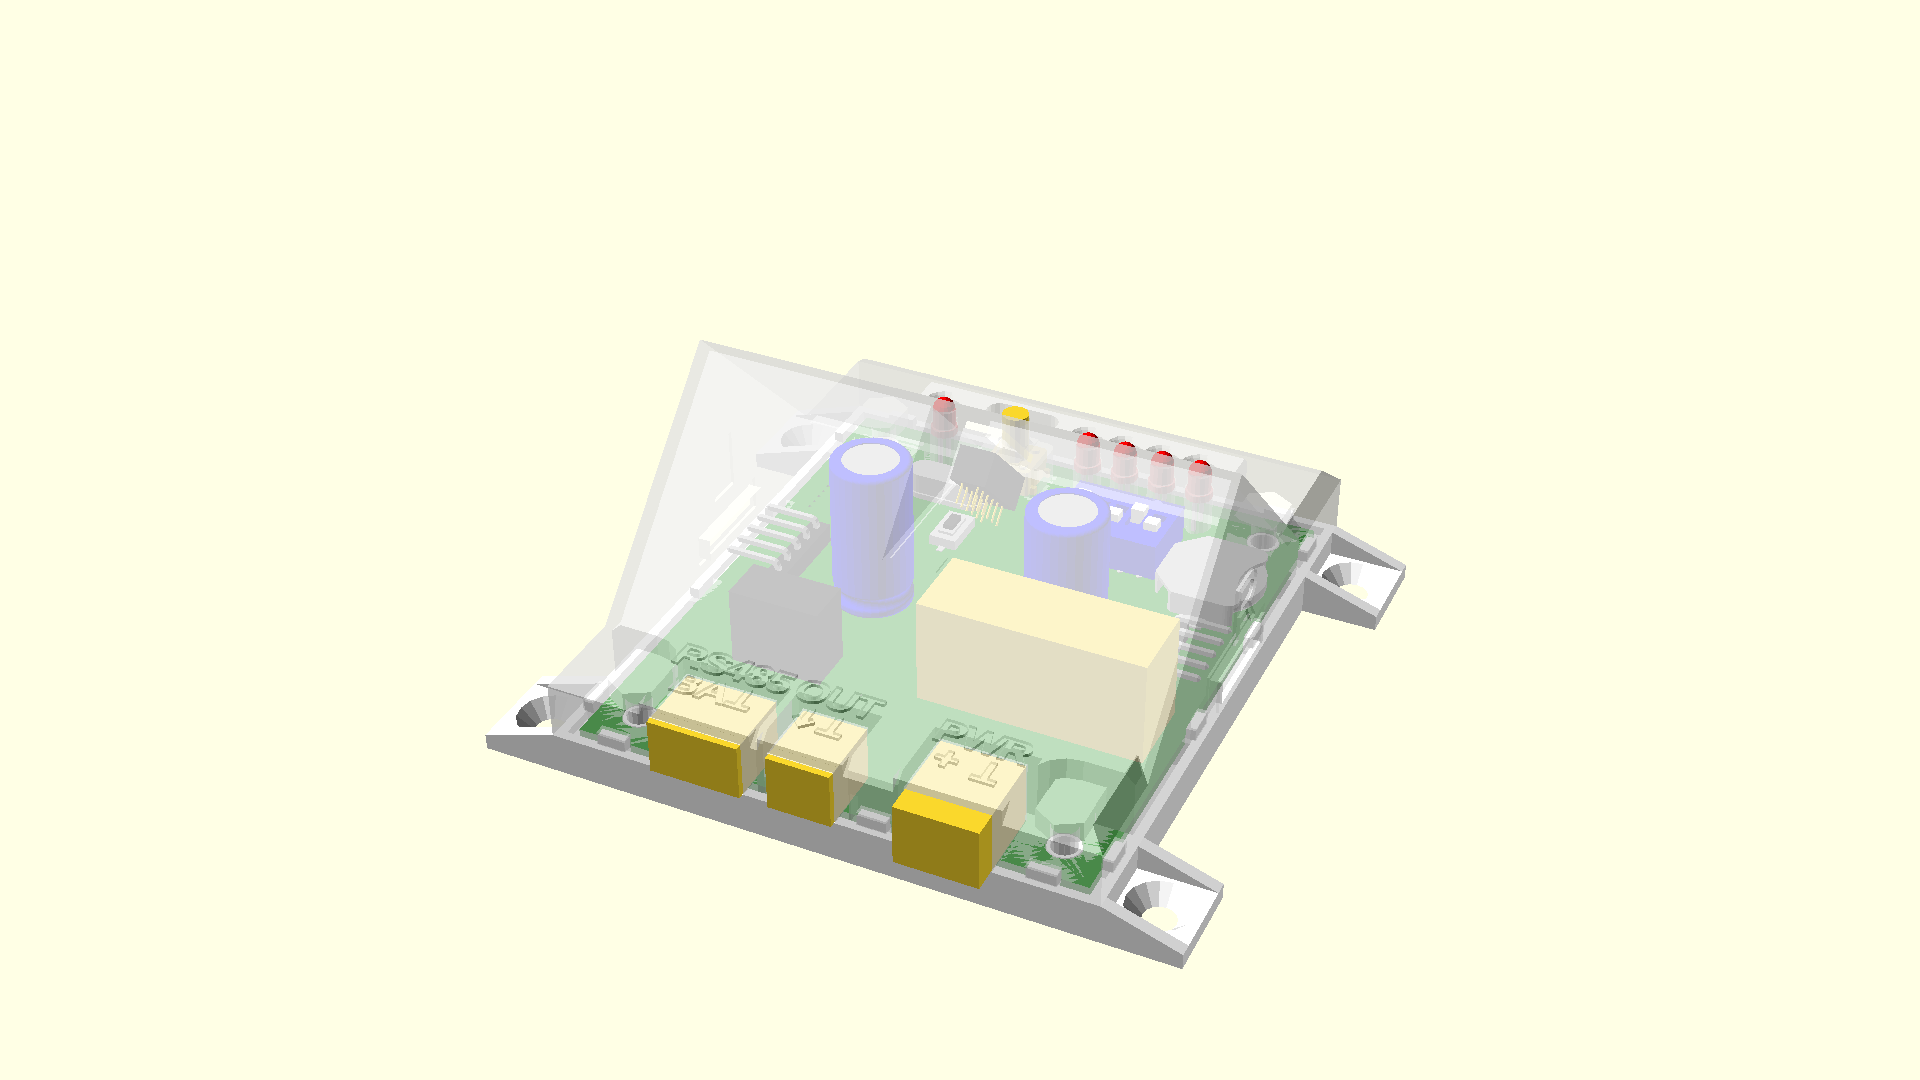
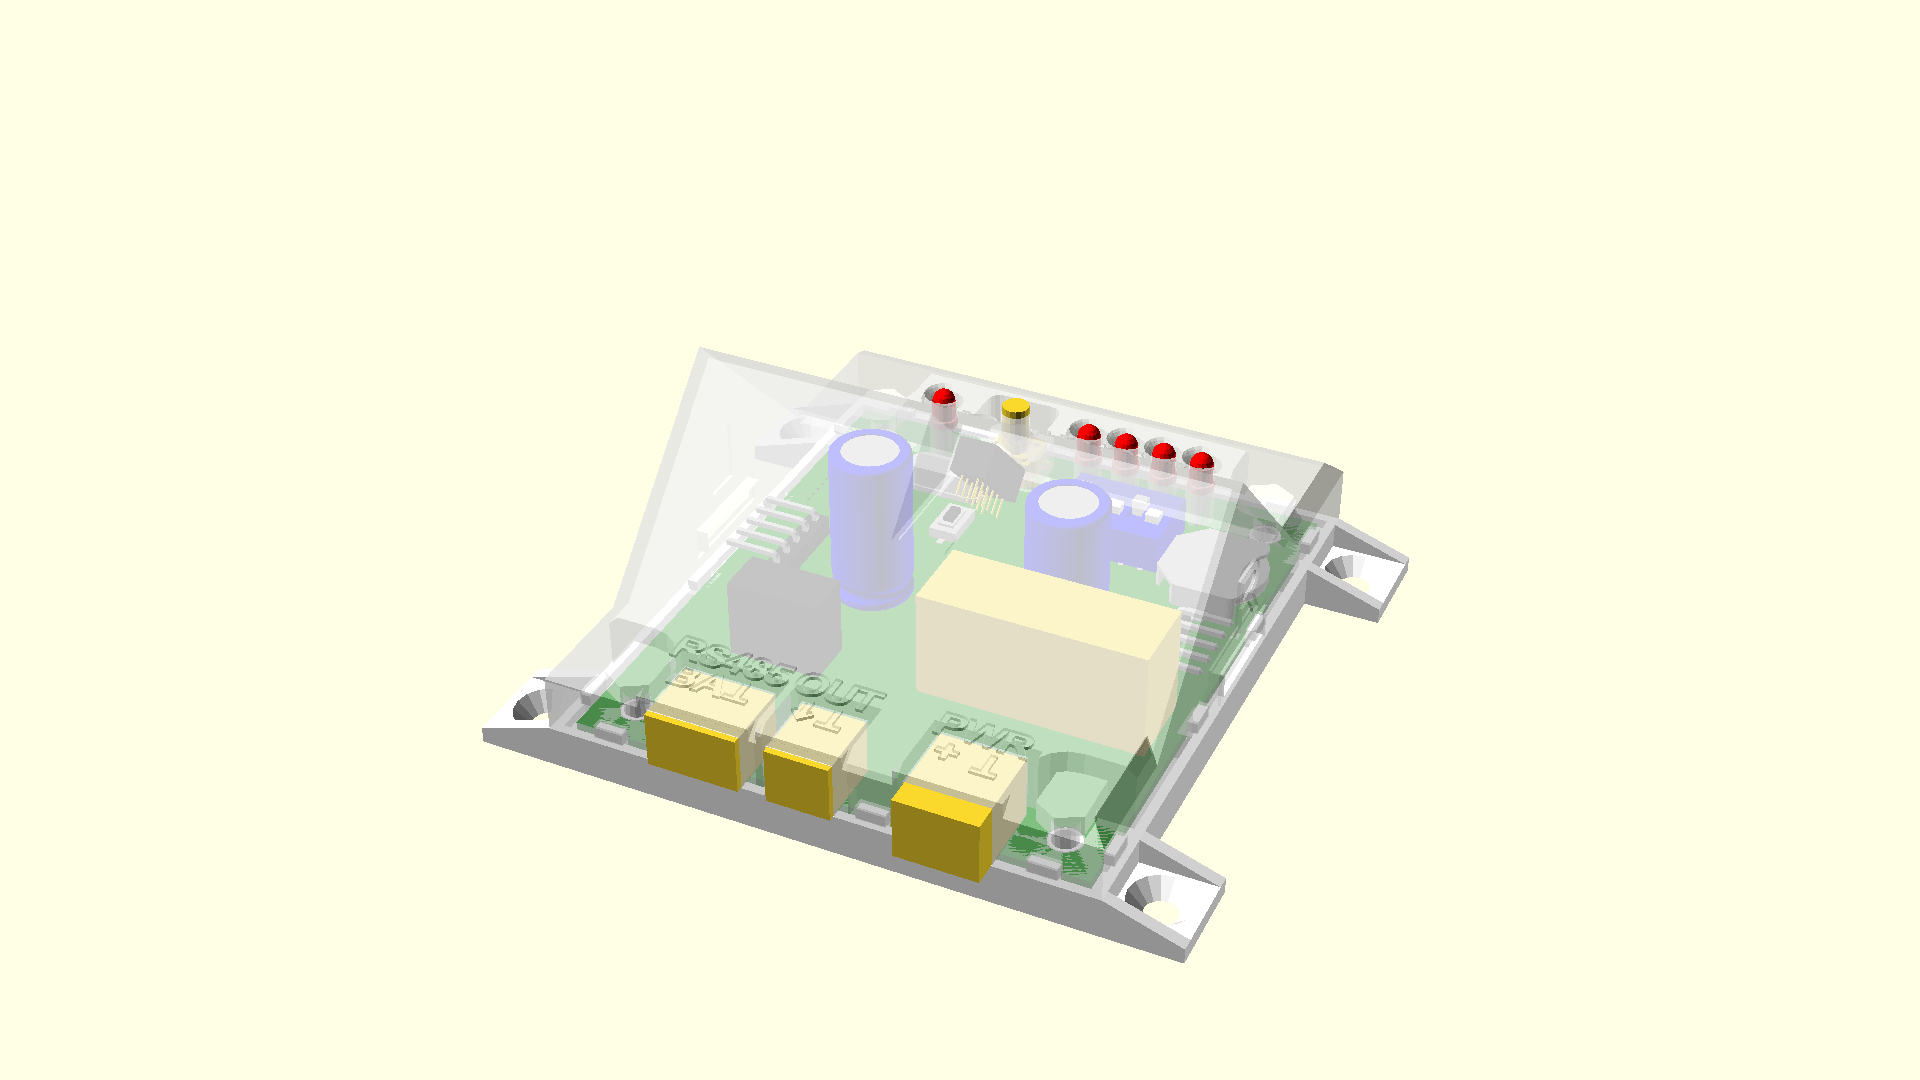
Adding LedProfile

diff --git a/README.md b/README.md
@@ -2,4 +2,4 @@
 
 Work in progress
 
-![Case](Devices/LedBar/3D/LedBar/Case.png)
+![Case](Devices/LedBar/3D/LedBar/LedBar.png)
